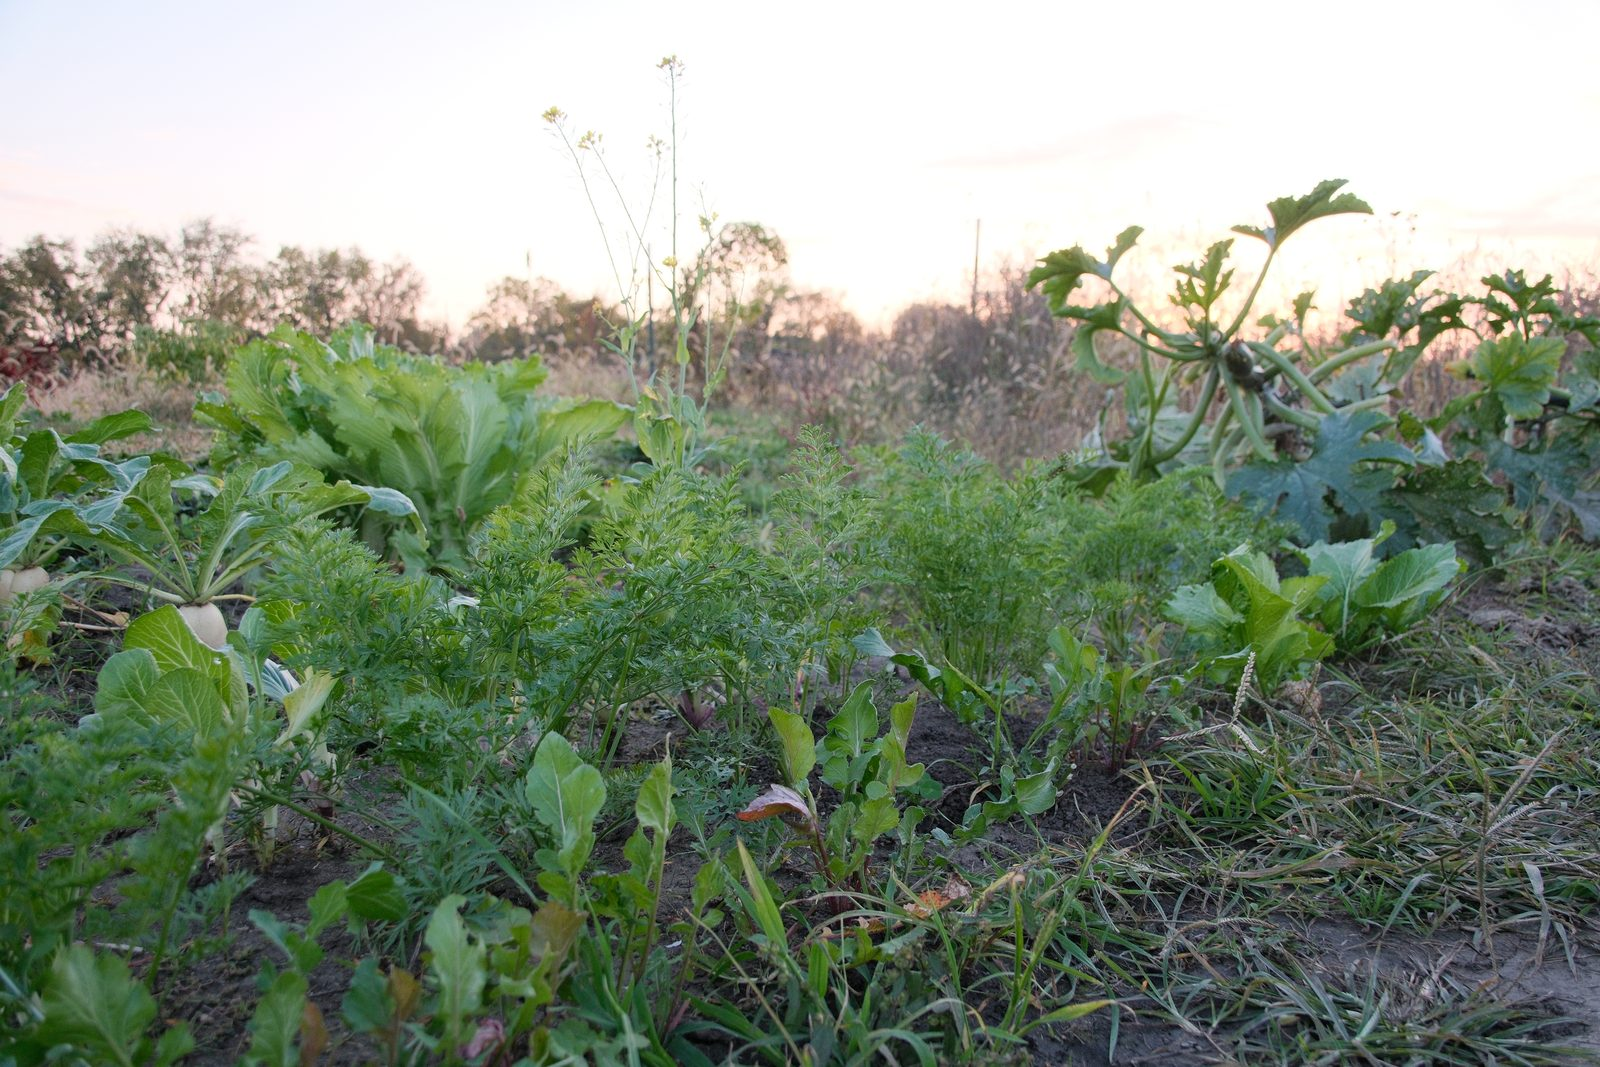
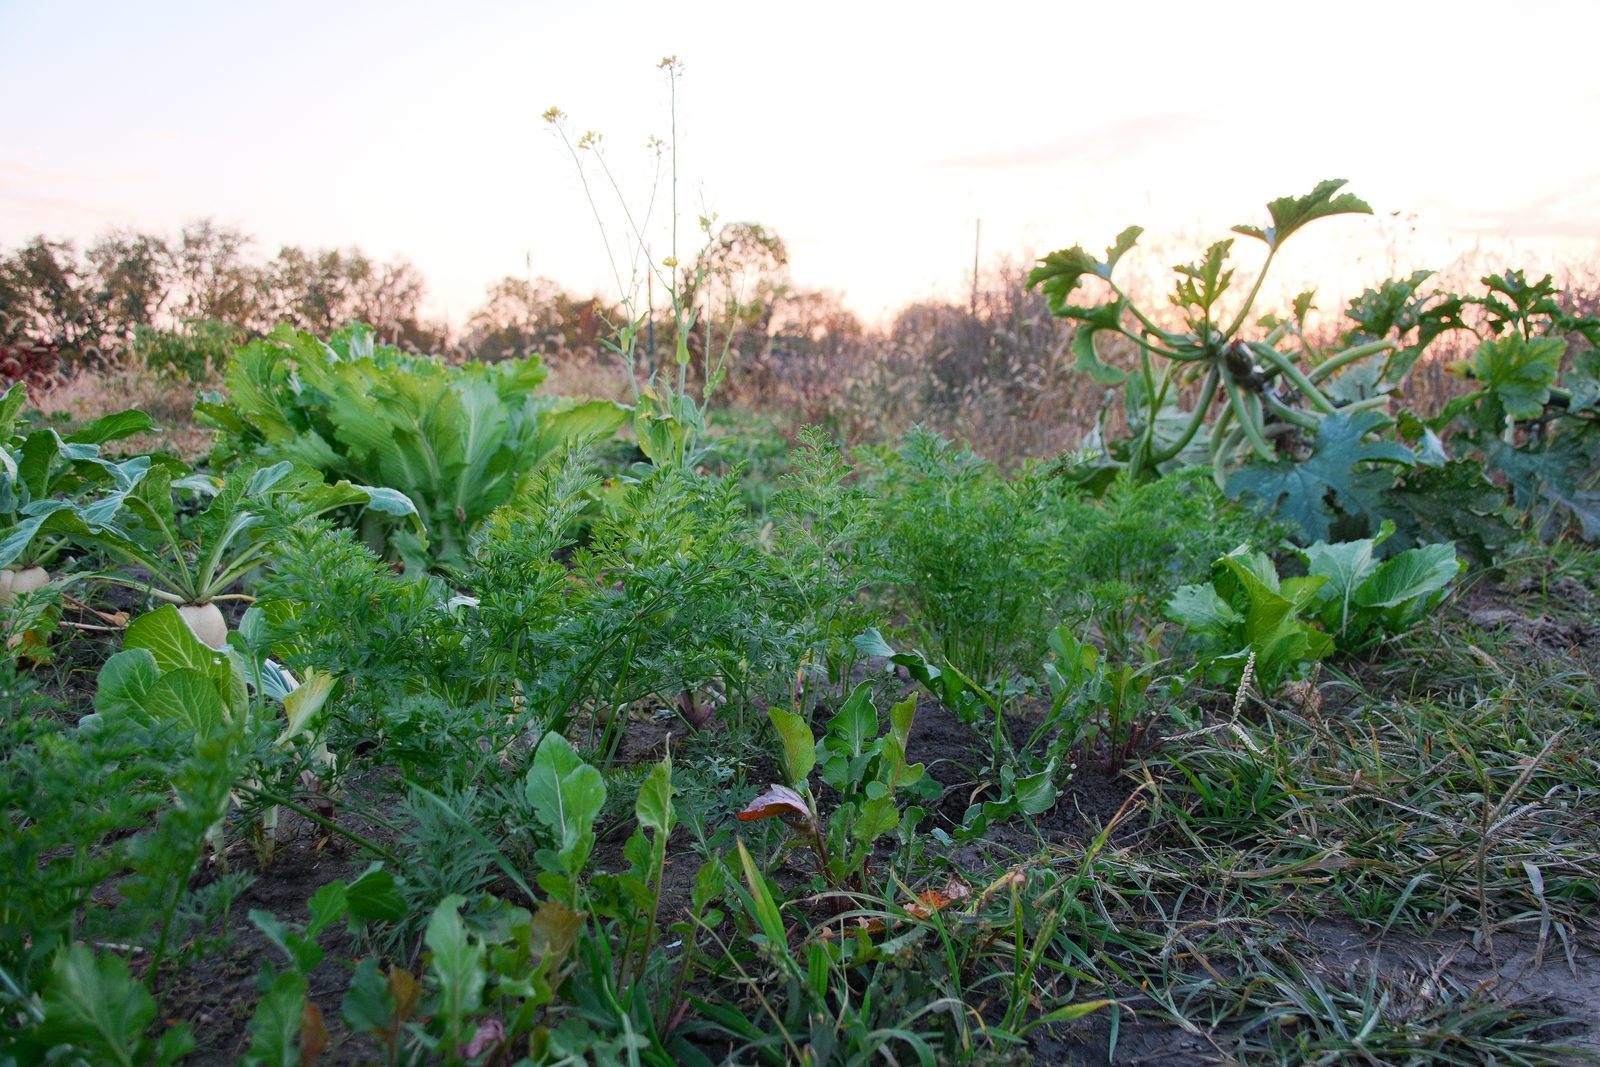
Use the updated garden photo; name the McFarland Memorial Bell Tower

diff --git a/_pages/about.md b/_pages/about.md
@@ -45,7 +45,7 @@ When I am not working on research, I am usually in my vegetable garden, which ha
     {% include figure.liquid loading="lazy" path="assets/img/photo_curtis_apple.jpg" class="img-fluid rounded z-depth-1" zoomable=true alt="Fallen apples under a tree at Curtis Orchard" %}
   </div>
   <div class="col-sm-4 mt-3 mt-md-0">
-    {% include figure.liquid loading="lazy" path="assets/img/photo_tower_autumn.jpg" class="img-fluid rounded z-depth-1" zoomable=true alt="The McFarland Carillon among autumn trees" %}
+    {% include figure.liquid loading="lazy" path="assets/img/photo_tower_autumn.jpg" class="img-fluid rounded z-depth-1" zoomable=true alt="The McFarland Memorial Bell Tower among autumn trees" %}
   </div>
 </div>
-<div class="caption">Left: apples at Curtis Orchard. Right: the McFarland Carillon in autumn.</div>
+<div class="caption">Left: apples at Curtis Orchard. Right: the McFarland Memorial Bell Tower in autumn.</div>
